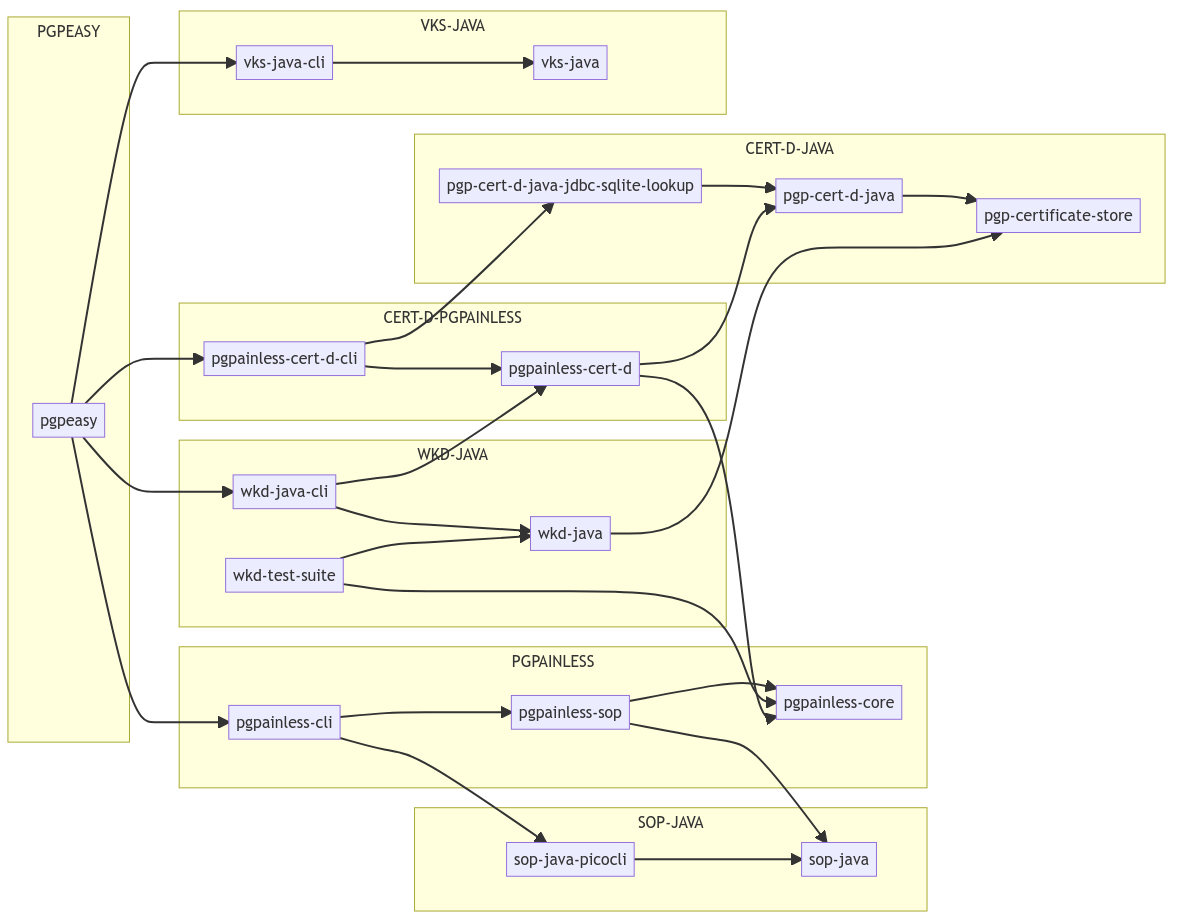
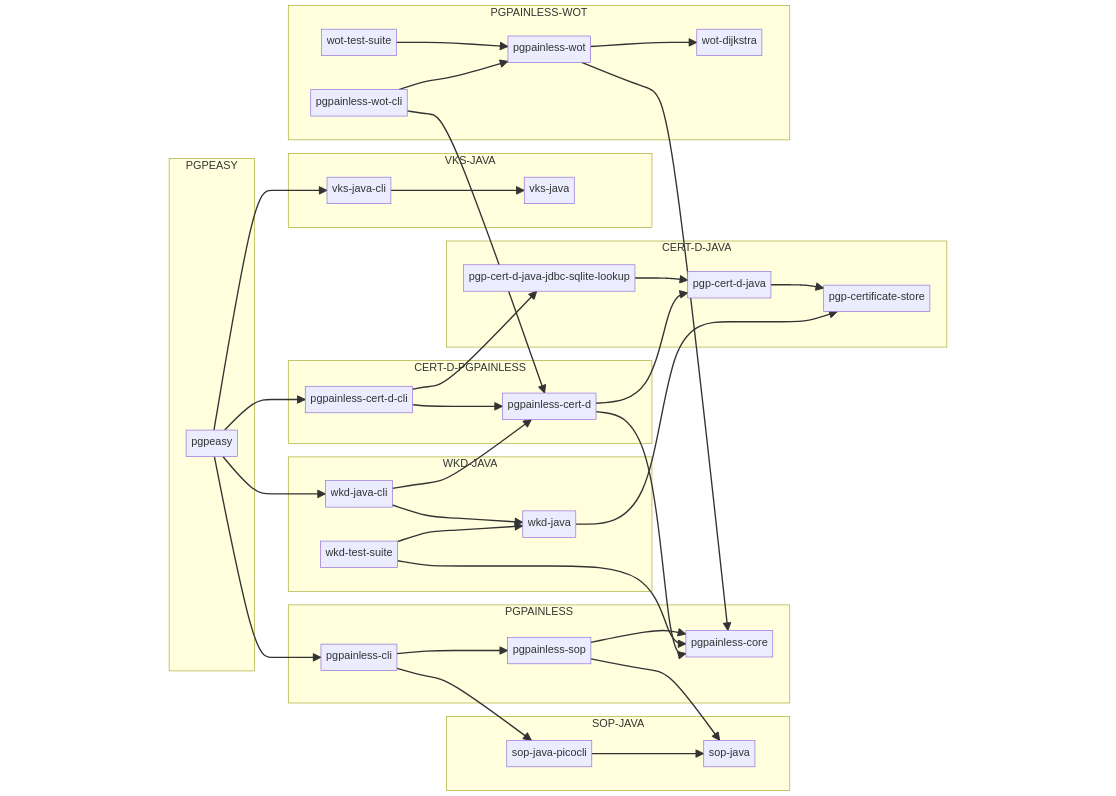
Update ecosystem diagram

diff --git a/docs/source/ecosystem.md b/docs/source/ecosystem.md
@@ -47,6 +47,13 @@ The diagram below shows, how the different projects relate to one another.
     * `pgpainless-cert-d` - PGPainless-based implementation of `pgp-cert-d-java`
     * `pgpainless-cert-d-cli` - CLI frontend for `pgpainless-cert-d`
 
+* {{ '[PGPainless-WOT](https://{}/pgpainless/pgpainless-wot)'.format(repo_host) }}
+  Implementation of the [OpenPGP Web of Trust specification](https://sequoia-pgp.gitlab.io/sequoia-wot/) using PGPainless.
+    * `pgpainless-wot` - Parse OpenPGP keyrings into a generic `Network` object
+    * `wot-dijkstra` - Perform queries to find paths inside a `Network` object
+    * `pgpainless-wot-cli` - CLI frontend for `pgpainless-wot` and `wot-dijkstra`
+    * `wot-test-suite` - Test vectors ported from [Sequoia-PGPs WoT implementation](https://gitlab.com/sequoia-pgp/sequoia-wot/-/tree/main/tests/data)
+
 * {{ '[PGPeasy](https://{}/pgpainless/pgpeasy)'.format(repo_host) }}  
   Prototypical, comprehensive OpenPGP CLI application
   * `pgpeasy` - CLI application

diff --git a/docs/source/ecosystem_dia.md b/docs/source/ecosystem_dia.md
@@ -27,6 +27,13 @@ flowchart LR
     subgraph VKS-JAVA
     vks-java-cli-->vks-java
     end
+    subgraph PGPAINLESS-WOT
+    wot-test-suite-->pgpainless-wot
+    pgpainless-wot-->wot-dijkstra
+    pgpainless-wot-cli-->pgpainless-wot
+    pgpainless-wot-->pgpainless-core
+    pgpainless-wot-cli-->pgpainless-cert-d
+    end
     subgraph PGPEASY
     pgpeasy-->pgpainless-cli
     pgpeasy-->wkd-java-cli
